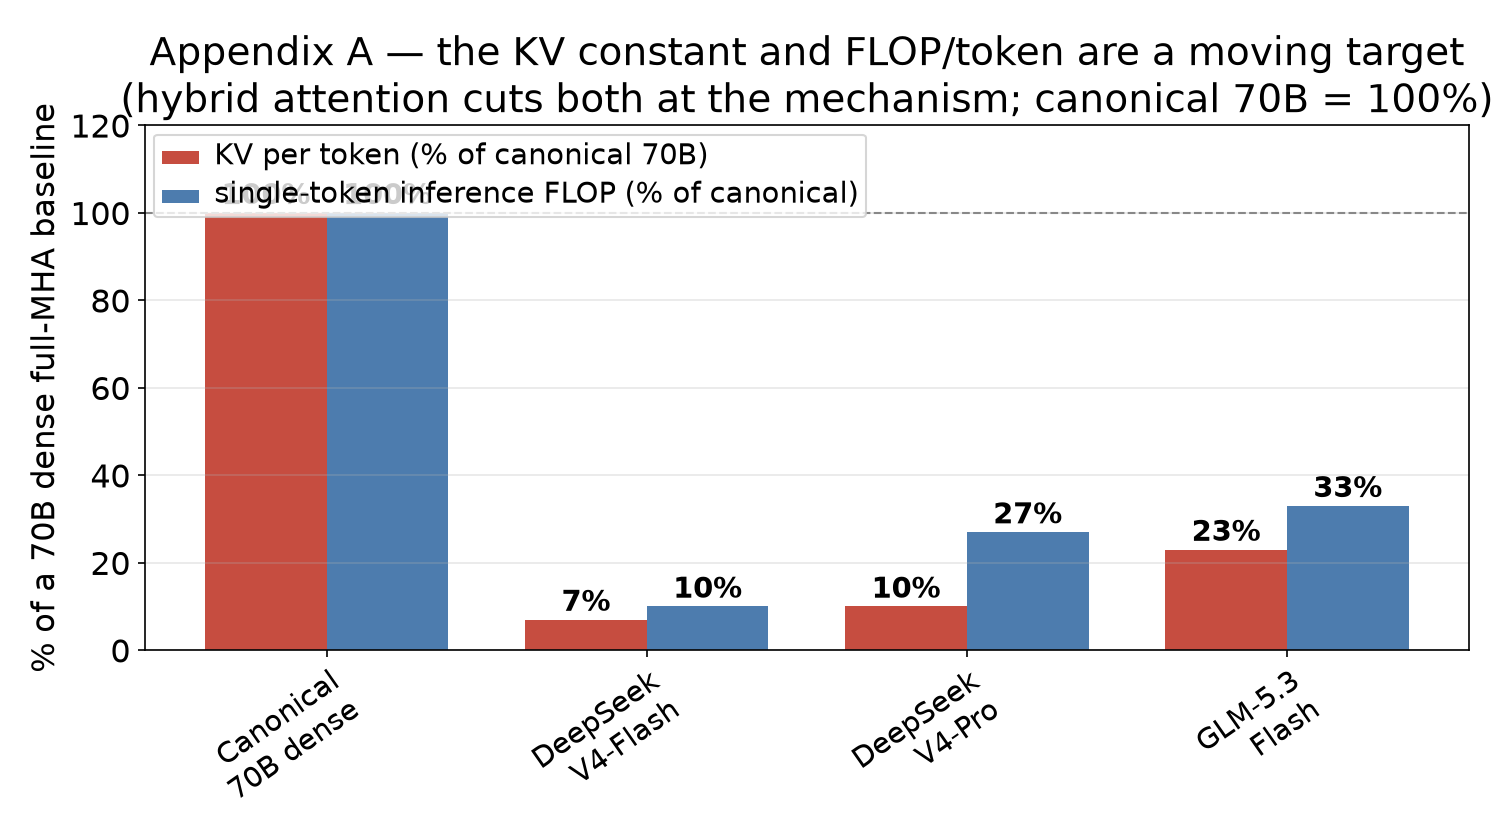
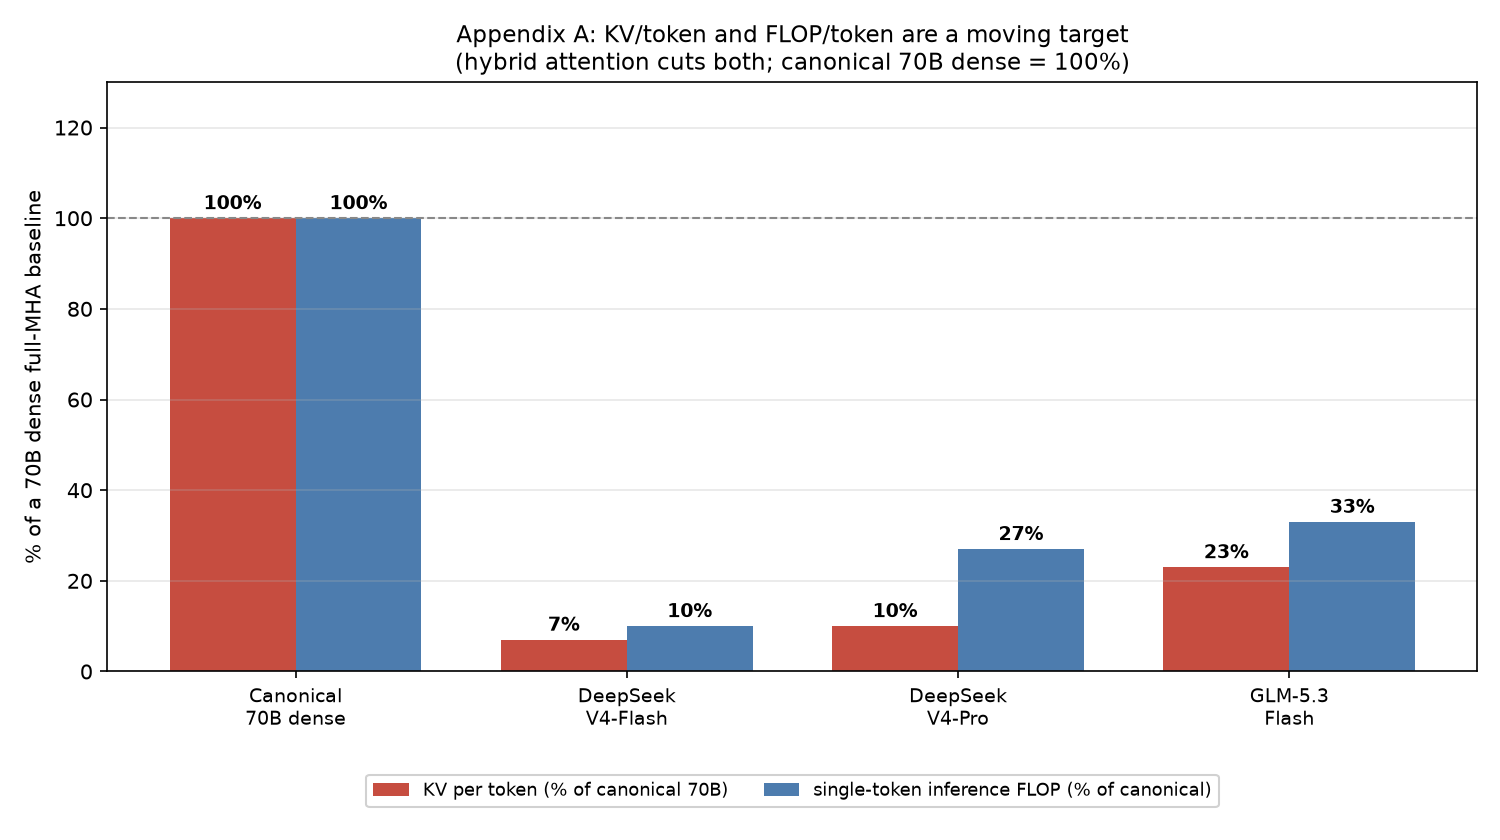
Fix Fig A.4 normalized bars: legend below axes, unclipped 100% labels, shorter title

Changed region(s): [[0.0, 0.031, 1.0, 0.9595], [0.7667, 0.619, 0.8587, 0.681], [0.0, 0.7119, 0.0307, 0.7429]]

diff --git a/render/fig_ch27_norm.py b/render/fig_ch27_norm.py
@@ -25,9 +25,9 @@ for bars in (b1, b2):
 ax.set_xticks(x)
 ax.set_xticklabels(models, fontsize=9)
 ax.set_ylabel('% of a 70B dense full-MHA baseline')
-ax.set_ylim(0, 120)
-ax.set_title('Appendix A — the KV constant and FLOP/token are a moving target\n(hybrid attention cuts both at the mechanism; canonical 70B = 100%)')
-ax.legend(fontsize=9, loc='upper right')
+ax.set_ylim(0, 130)
+ax.set_title('Appendix A: KV/token and FLOP/token are a moving target\n(hybrid attention cuts both; canonical 70B dense = 100%)', fontsize=11)
+ax.legend(fontsize=8.5, loc='upper center', bbox_to_anchor=(0.5, -0.16), ncol=2, framealpha=0.9)
 ax.grid(axis='y', alpha=0.3)
 ax.axhline(100, color='#888', ls='--', lw=1)
 plt.tight_layout()
